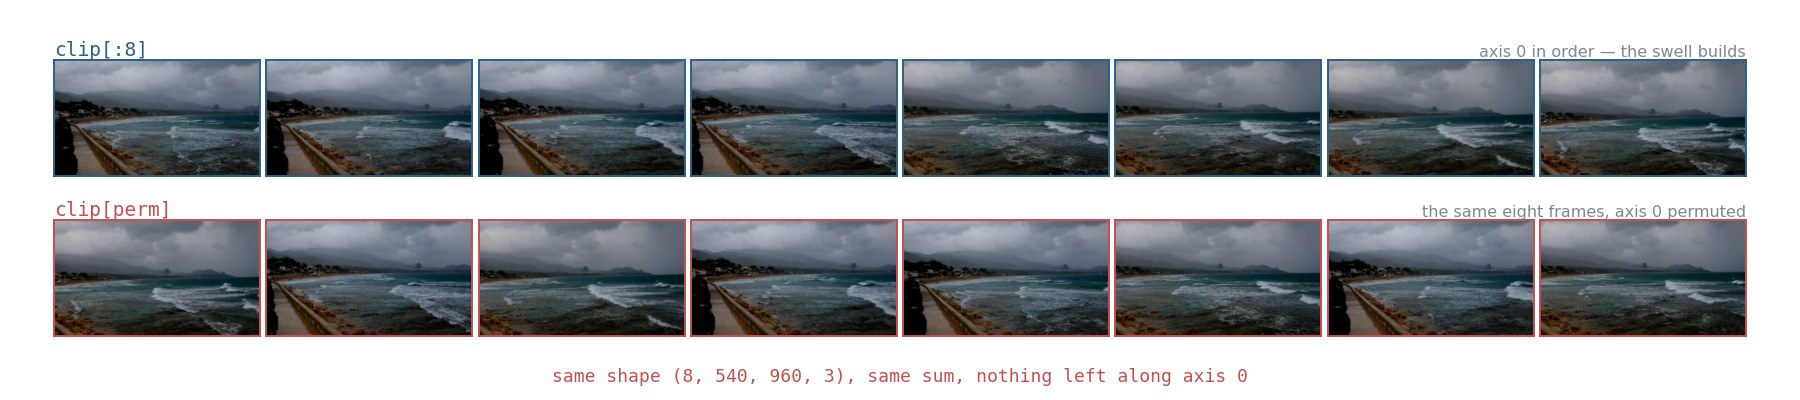
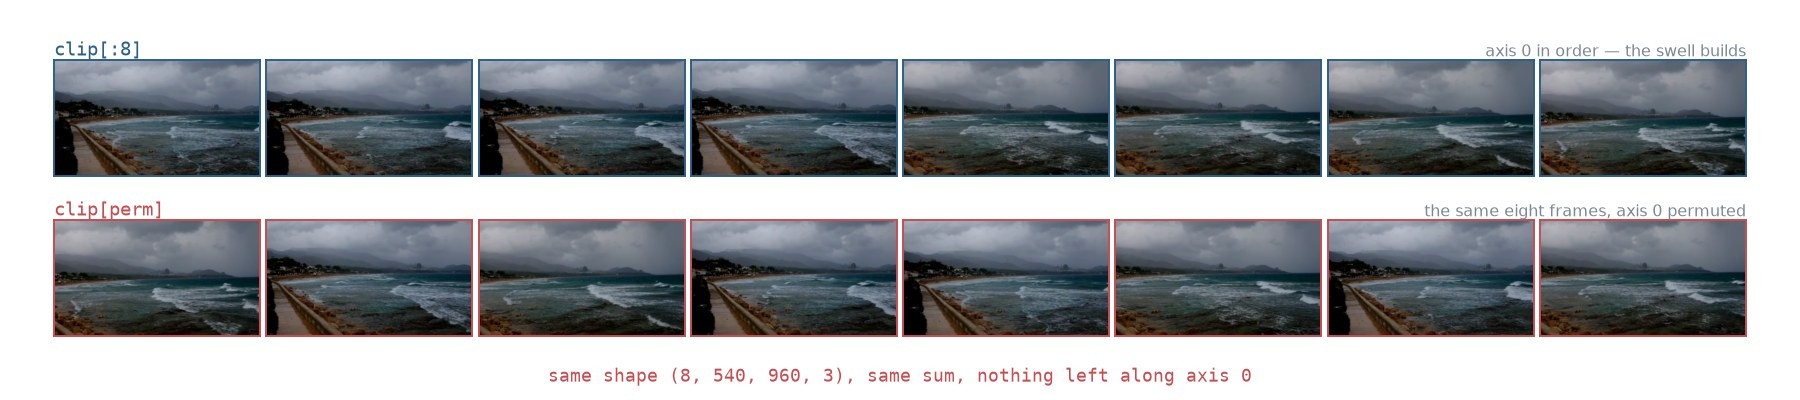
Redraw the six figures the stack had drifted away from
The four image generators sit outside the byte-exact regenerate gate on
purpose -- they need the network and a scientific stack CI does not install
-- and CLAUDE.md has said all along that nothing will therefore tell you an
image is stale. That was theoretical. It is not any more: rerunning
gen_figures.py three weeks after 72aae08 drew the figures rewrote all six of
them, plus ds-audio.png from gen_thumbnails.py, with no input changed
anywhere.

The cause is the stack, not the arrays. `figures` carries floors rather than
pins and uv.lock is gitignored, both deliberately, so every
`uv run --group figures` resolves whatever matplotlib and Pillow are newest
that day -- and matplotlib decides glyph positions, hairline placement and
how an image is downsampled. Checked before committing the new bytes: every
printed number, colour, bar and filled cell is pixel-identical, and the whole
diff is text glyphs, a few cell-boundary hairlines, and the resampling grain
of the photographic panels. ds-audio.png is pixel-identical outright, only
the PNG encoder's bytes having shifted. Two consecutive runs agree byte for
byte, so the generators are still deterministic -- for a given stack, which
is the whole of the guarantee.

The eight photographic dataset cards and all fourteen cube GIFs came back
byte-identical. Pillow's crop-and-resize path and the GIF writer have not
moved; matplotlib is the one that drifts.

So the refresh lands on its own rather than riding along in unrelated work,
[…]

diff --git a/scripts/gen_thumbnails.py b/scripts/gen_thumbnails.py
@@ -97,6 +97,42 @@ INK = "#2f4858"      # $presentation-heading-color, from slides/slides.scss
 ACCENT = "#2c5f8a"   # $link-color
 
 
+# The pinned sources say where the pixels came *from*. This says what turned
+# them into bytes, which is the other half of the provenance and the half that
+# was missing: `figures` carries floors rather than pins and there is no
+# lockfile, so every `uv run --group figures` resolves whatever matplotlib and
+# Pillow are newest that day. Those two decide glyph positions, hairline
+# placement, image downsampling and the encoders, so a rerun months later
+# rewrites every file it draws while changing nothing any of them says.
+#
+# Print it, and a future `git diff` on a binary is answerable: compare this
+# line against the one in the commit that last drew the file. Same versions and
+# a changed image means an input moved; different versions and the diff is
+# almost certainly rasterization, and worth confirming before assuming worse.
+STACK = ("matplotlib", "pillow", "freetype", "numpy", "scipy",
+         "scikit-image", "scikit-learn", "pandas", "imageio")
+
+
+def stack() -> None:
+    """Print the versions that decide the bytes about to be written."""
+    import importlib.metadata as md
+
+    parts = []
+    for name in STACK:
+        if name == "freetype":
+            try:
+                import matplotlib.ft2font
+                parts.append(f"freetype {matplotlib.ft2font.__freetype_version__}")
+            except Exception:
+                pass
+            continue
+        try:
+            parts.append(f"{name} {md.version(name)}")
+        except md.PackageNotFoundError:
+            pass
+    print("Stack: " + ", ".join(parts))
+
+
 def get(url: str, expected_sha256: str | None = None) -> bytes:
     req = urllib.request.Request(url, headers={"User-Agent": UA})
     raw = urllib.request.urlopen(req, timeout=120).read()
@@ -314,6 +350,7 @@ def video() -> None:
 
 
 if __name__ == "__main__":
+    stack()
     photos()
     digits()
     cell()

diff --git a/scripts/gen_figures.py b/scripts/gen_figures.py
@@ -40,7 +40,7 @@ from pathlib import Path
 sys.path.insert(0, str(Path(__file__).resolve().parent))
 
 from gen_thumbnails import (ACCENT, INK, IMAGES, VIDEO_SHA256, VIDEO_URL,
-                            canvas_to_pil, get, write_gif)
+                            canvas_to_pil, get, stack, write_gif)
 
 # Seaborn's "deep" red, which is what the bars in the existing
 # `nyc-taxi-pickups-by-hour.png` are drawn in. Reusing it exactly keeps the new
@@ -827,6 +827,7 @@ def fig_tucker_taxi(arrays) -> Path:
 
 
 if __name__ == "__main__":
+    stack()
     print("Loading the arrays (network: the pinned clip and the taxi CSV)")
     arrays = load_ladder()
     print("Figures")

diff --git a/scripts/gen_cube_gifs.py b/scripts/gen_cube_gifs.py
@@ -63,7 +63,7 @@ from pathlib import Path
 sys.path.insert(0, str(Path(__file__).resolve().parent))
 
 from gen_notebooks import ACCENTS                                  # noqa: E402
-from gen_thumbnails import IMAGES, INK, canvas_to_pil, write_gif   # noqa: E402
+from gen_thumbnails import IMAGES, INK, canvas_to_pil, stack, write_gif  # noqa: E402
 
 PAPER = "#ffffff"
 MUTE = "#7b8794"
@@ -842,6 +842,7 @@ SCENES = {
 
 
 def main(only=None) -> None:
+    stack()
     print("Cube GIFs")
     total = 0
     for n, (stem, build) in SCENES.items():

diff --git a/CLAUDE.md b/CLAUDE.md
@@ -60,8 +60,35 @@ against anything. Add the path when you add the file.
 **The four image generators are not in that gate**, deliberately: they need
 the network, and a scientific stack or a browser the workflow does not install.
 So nothing will tell you an image is stale — rerun them by hand when their
-inputs change. All four are still deterministic, and all four record where
-every pixel came from, which is the actual point:
+inputs change. All four record where every pixel came from, which is the
+actual point.
+
+All four are deterministic **for a given stack**, and that is the whole of the
+guarantee — weaker than it reads, and now confirmed rather than theoretical.
+`figures` carries floors rather than pins and `uv.lock` is gitignored, both
+deliberately, so every `uv run --group figures` resolves whatever matplotlib
+and Pillow are newest that day; matplotlib is what decides glyph positions,
+hairline placement and how an image is downsampled. Rerunning the generators on
+2026-09-14, three weeks after the figures were drawn, rewrote all six of them
+and `ds-audio.png` with no input changed anywhere. Nothing any of them *says*
+moved: every printed number, every colour, every bar and every filled cell came
+back pixel-identical, and the entire diff was text glyphs, a few hairlines, and
+the resampling grain of the photographic panels. `ds-audio.png` was
+pixel-identical outright — only the PNG encoder's bytes had shifted. The eight
+photographic dataset cards and all fourteen cube GIFs came back byte-identical,
+because Pillow's crop-and-resize path and the GIF writer have not moved.
+Matplotlib is the one that drifts.
+
+So a dirty `git status` on these after a rerun is the expected consequence of a
+matplotlib release, not evidence that an input changed — and the two are worth
+telling apart before you either commit or panic. Each generator prints a
+`Stack:` line naming the versions that drew the files, which is what tells them
+apart: compare it against the line in the commit that last drew the image. Same
+versions and a changed image means an input moved; different versions and the
+diff is almost certainly rasterization, which a mask of the changed pixels will
+confirm in a minute.
+
+What each one draws, and from where:
 
 - `gen_thumbnails.py` builds the nine dataset cards from SHA-256-pinned CC0
   sources. Pinning matters: a Commons file can be overwritten under the same
